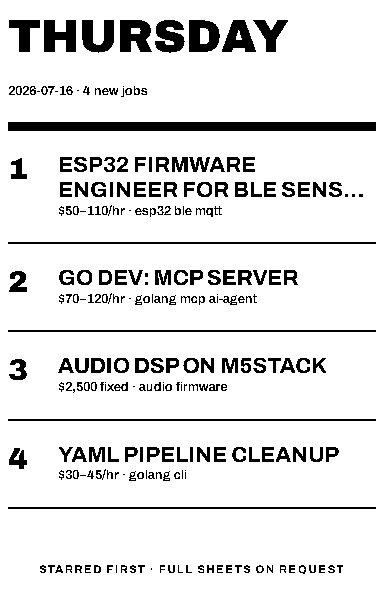
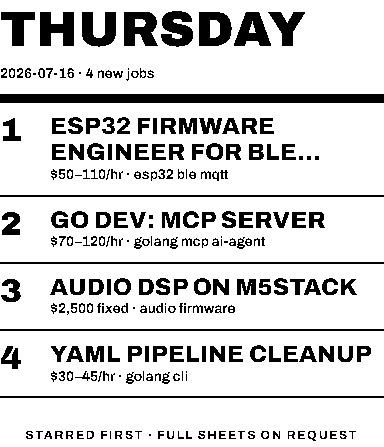
feat(slip): edge-to-edge defaults, one step bigger, brutalist decision sheet
Work themes: padding 0px (the paper strip has physical margin already) and a
new theme.blockGap token (2px) so explicit space blocks own the vertical
rhythm instead of stacking on the 14px paper gap. Type scale up one step
(h1 33/brutalist 35, h2 24, display 50-54, micro 12; body 16). Decision-sheet
example converted to its brutalist slip-studio form (#3790 id suffix, exact
block sequence). Screenshots refreshed; job slip, triage card, and decision
sheet reprinted.

diff --git a/web/src/almanach-studio.jsx b/web/src/almanach-studio.jsx
@@ -184,13 +184,16 @@ const THEMES = {
     grain: 0,
     // Work slips are glanced at from arm's length: tight page padding, big
     // heavy running text.
-    padding: "10px 8px",
+    // The paper strip has physical margin already — print edge to edge.
+    padding: "0px",
+    // Tight vertical rhythm: explicit `space` blocks own the spacing.
+    blockGap: 2,
     presetOverrides: {
-      body: { size: 15, weight: 600 },
-      bodyStrong: { size: 15, weight: 800 },
-      caption: { size: 13, weight: 600 },
-      overline: { size: 12, weight: 700 },
-      small: { size: 12 },
+      body: { size: 16, weight: 600 },
+      bodyStrong: { size: 16, weight: 800 },
+      caption: { size: 14, weight: 600 },
+      overline: { size: 13, weight: 700 },
+      small: { size: 13 },
     },
     tokens: {
       space: { xs: 5, s: 10, m: 16, l: 26, xl: 42 },
@@ -216,18 +219,21 @@ const THEMES = {
     titleCase: "uppercase",
     ornateFrame: false,
     grain: 0,
-    padding: "10px 8px",
+    // The paper strip has physical margin already — print edge to edge.
+    padding: "0px",
+    // Tight vertical rhythm: explicit `space` blocks own the spacing.
+    blockGap: 2,
     // Everything heavy and uppercase — slip-studio's forceCase, expressed as
     // preset data instead of a special mechanism. Nothing below weight 800.
     presetOverrides: {
-      body: { size: 15, weight: 800, textCase: "upper" },
-      bodyStrong: { size: 15, weight: 900, textCase: "upper" },
-      caption: { size: 13, weight: 800, textCase: "upper" },
-      small: { size: 12, weight: 800, textCase: "upper" },
-      h1: { size: 32, textCase: "upper" },
+      body: { size: 16, weight: 800, textCase: "upper" },
+      bodyStrong: { size: 16, weight: 900, textCase: "upper" },
+      caption: { size: 14, weight: 800, textCase: "upper" },
+      small: { size: 13, weight: 800, textCase: "upper" },
+      h1: { size: 35, textCase: "upper" },
       h2: { weight: 900, textCase: "upper" },
-      display: { size: 50, textCase: "upper" },
-      overline: { size: 12, weight: 800 },
+      display: { size: 54, textCase: "upper" },
+      overline: { size: 13, weight: 800 },
       micro: { weight: 800 },
     },
     tokens: {
@@ -254,13 +260,16 @@ const THEMES = {
     titleCase: "uppercase",
     ornateFrame: false,
     grain: 0,
-    padding: "10px 8px",
+    // The paper strip has physical margin already — print edge to edge.
+    padding: "0px",
+    // Tight vertical rhythm: explicit `space` blocks own the spacing.
+    blockGap: 2,
     presetOverrides: {
-      display: { size: 36, weight: 700 },
-      h1: { size: 23, weight: 700 },
-      h2: { size: 18, weight: 700 },
-      body: { size: 14, weight: 600 },
-      caption: { size: 12.5 },
+      display: { size: 40, weight: 700 },
+      h1: { size: 25, weight: 700 },
+      h2: { size: 20, weight: 700 },
+      body: { size: 15, weight: 600 },
+      caption: { size: 13.5 },
     },
     tokens: {
       space: { xs: 4, s: 8, m: 13, l: 21, xl: 32 },
@@ -1549,7 +1558,7 @@ const ThermalPaper = React.forwardRef(({ blocks, theme, selectedId, onSelect, on
           </div>
         )}
 
-        <div style={{ position: "relative", display: "flex", flexDirection: "column", gap: theme.ornateFrame ? 12 : 14 }}>
+        <div style={{ position: "relative", display: "flex", flexDirection: "column", gap: theme.blockGap ?? (theme.ornateFrame ? 12 : 14) }}>
           {blocks.map((b, i) => {
             const isSelected = b.id === selectedId;
             const isBoxed = theme.boxed && b.type !== "title" && b.type !== "date" && b.type !== "divider";

diff --git a/web/src/typography/presets.js b/web/src/typography/presets.js
@@ -71,13 +71,13 @@ export const DEFAULT_PRESETS = {
   // The scale is deliberately LARGE: a slip is glanced at from arm's length,
   // and paper-verified legibility favors big and heavy.
   // Huge stat numerals ("5 PROPOSALS" trios, digest weekday).
-  display: { role: "display", size: 46, weight: 900, lineHeight: 1.02 },
-  // Slip headline (job title) — ~3 words per line at 384 dots.
-  h1: { role: "display", size: 30, weight: 900, lineHeight: 1.08 },
+  display: { role: "display", size: 50, weight: 900, lineHeight: 1.02 },
+  // Slip headline (job title) — ~2-3 words per line at 384 dots.
+  h1: { role: "display", size: 33, weight: 900, lineHeight: 1.06 },
   // Secondary headline (rates, section heads).
-  h2: { role: "display", size: 22, weight: 700, lineHeight: 1.12 },
+  h2: { role: "display", size: 24, weight: 800, lineHeight: 1.1 },
   // Tracked uppercase labels (stat captions, table heads) — floored + bold.
-  micro: { role: "body", size: 11, weight: 700, letterSpacing: 0.14, textCase: "upper", lineHeight: 1.2, minSize: 10 },
+  micro: { role: "body", size: 12, weight: 700, letterSpacing: 0.14, textCase: "upper", lineHeight: 1.2, minSize: 11 },
 };
 
 /**
